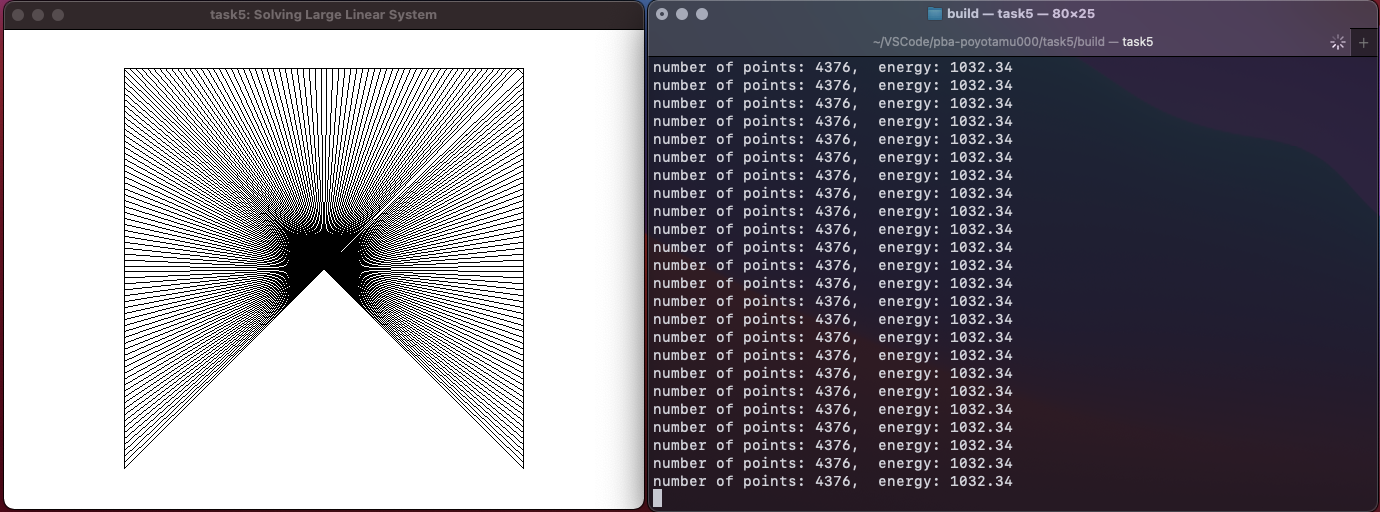
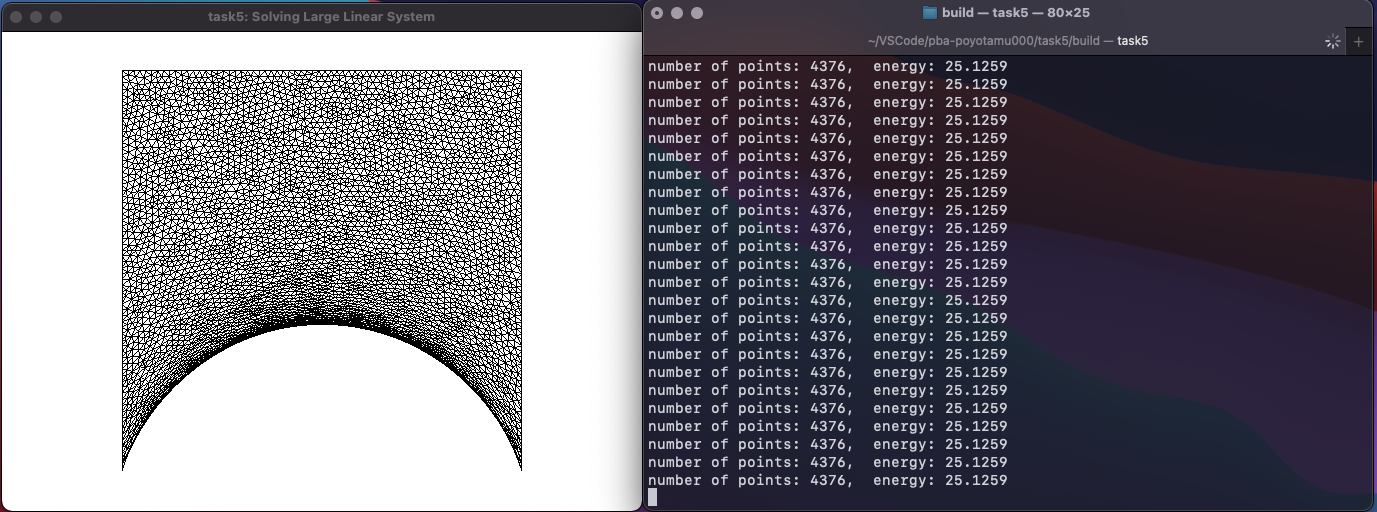
fix: Problem2

Changed region(s): [[0.0, 0.0, 1.0, 1.0], [0.0625, 0.125, 0.406, 0.9062], [0.0, 0.0, 0.5309, 0.0625]]

diff --git a/task5/main.cpp b/task5/main.cpp
@@ -36,8 +36,8 @@ void GaussSeidelRelaxation(
       pos_new[1] += p1[1];
     }
     // write something here
-    pos_new[0] /= aPsupInd.size();
-    pos_new[1] /= aPsupInd.size();
+    pos_new[0] /= nneighbour;
+    pos_new[1] /= nneighbour;
     // un-comment below
     aXY[ip*2+0] = pos_new[0]; // update the x-coordinate of ip
     aXY[ip*2+1] = pos_new[1]; // update the y-coordinate of ip
